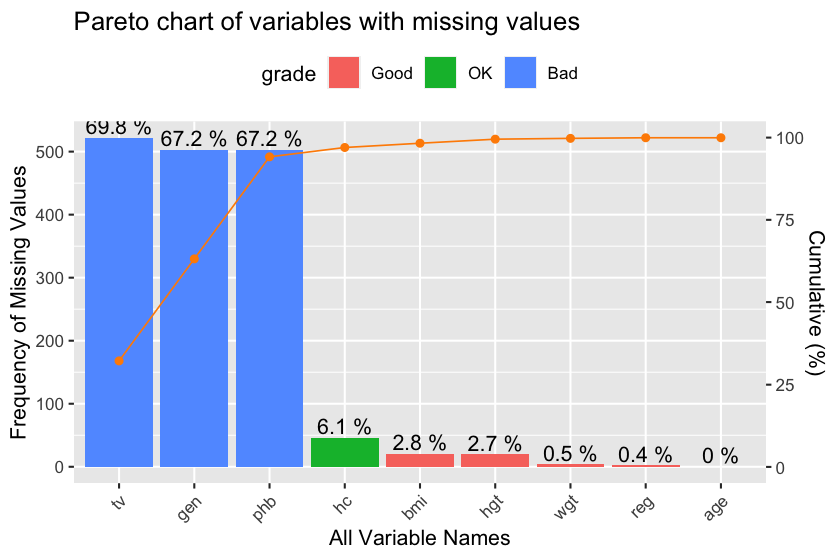
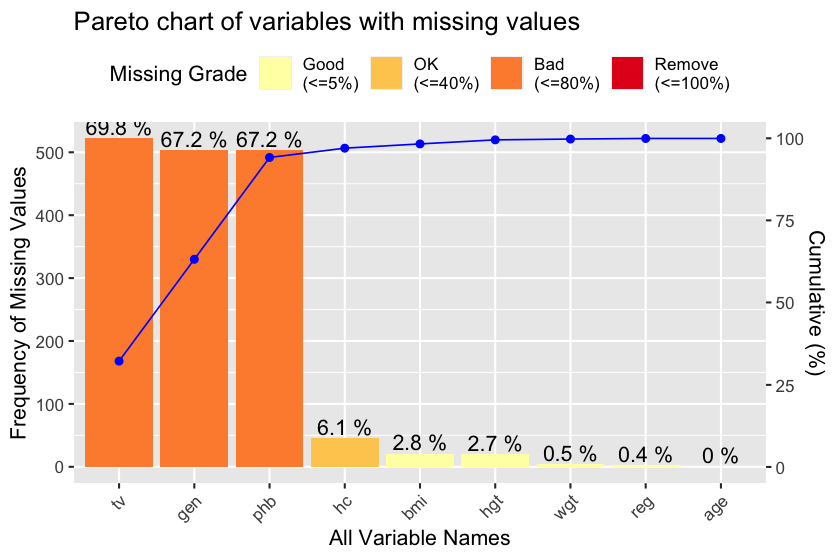
fixed the diagonosis in pkgdown docs

diff --git a/docs/articles/diagonosis.html b/docs/articles/diagonosis.html
@@ -77,7 +77,7 @@
       <h1 data-toc-skip>Data quality diagnosis</h1>
                         <h4 class="author">Choonghyun Ryu</h4>
             
-            <h4 class="date">2020-11-22</h4>
+            <h4 class="date">2020-12-04</h4>
       
       <small class="dont-index">Source: <a href="https://github.com/choonghyunryu/dlookr/blob/master/vignettes/diagonosis.Rmd"><code>vignettes/diagonosis.Rmd</code></a></small>
       <div class="hidden name"><code>diagonosis.Rmd</code></div>
@@ -427,7 +427,7 @@ diagnose(flights, -(year:day))
 </h4>
 <p><code><a href="../reference/plot_na_pareto.html">plot_na_pareto()</a></code> draws a pareto chart by collecting variables including missing values.</p>
 <div class="sourceCode" id="cb15"><html><body><pre class="r"><span class="kw pkg">mice</span><span class="kw ns">::</span><span class="no"><a href="https://rdrr.io/pkg/mice/man/boys.html">boys</a></span> <span class="kw">%&gt;%</span>
-  <span class="fu"><a href="../reference/plot_na_pareto.html">plot_na_pareto</a></span>(<span class="kw">col</span> <span class="kw">=</span> <span class="st">"darkorange"</span>)</pre></body></html></div>
+  <span class="fu"><a href="../reference/plot_na_pareto.html">plot_na_pareto</a></span>(<span class="kw">col</span> <span class="kw">=</span> <span class="st">"blue"</span>)</pre></body></html></div>
 <p><img src="diagonosis_files/figure-html/plot_na_pareto1-1.png" width="600px" style="display: block; margin: auto;"></p>
 <p>The default value of the <code>only_na</code> argument is FALSE, which includes variables that do not contain missing values, but if this value is set to TRUE, only variables containing missing values are visualized. The variable <code>age</code> was excluded from this plot.</p>
 <div class="sourceCode" id="cb16"><html><body><pre class="r"><span class="kw pkg">mice</span><span class="kw ns">::</span><span class="no"><a href="https://rdrr.io/pkg/mice/man/boys.html">boys</a></span> <span class="kw">%&gt;%</span>
@@ -645,7 +645,7 @@ Data diagnosis report outlier diagnosis contents (html)
 <span class="no">carseats</span>[<span class="fu"><a href="https://rdrr.io/r/base/sample.html">sample</a></span>(<span class="fu"><a href="https://rdrr.io/r/base/seq.html">seq</a></span>(<span class="fu"><a href="https://rdrr.io/r/base/nrow.html">NROW</a></span>(<span class="no">carseats</span>)), <span class="fl">5</span>), <span class="st">"Urban"</span>] <span class="kw">&lt;-</span> <span class="fl">NA</span>
 
 <span class="co"># connect DBMS</span>
-<span class="no">con_sqlite</span> <span class="kw">&lt;-</span> <span class="kw pkg">DBI</span><span class="kw ns">::</span><span class="fu"><a href="https://dbi.r-dbi.org/reference/dbConnect.html">dbConnect</a></span>(<span class="kw pkg">RSQLite</span><span class="kw ns">::</span><span class="fu"><a href="https://rsqlite.r-dbi.org/reference/SQLite.html">SQLite</a></span>(), <span class="st">":memory:"</span>)
+<span class="no">con_sqlite</span> <span class="kw">&lt;-</span> <span class="kw pkg">DBI</span><span class="kw ns">::</span><span class="fu"><a href="https://dbi.r-dbi.org/reference/dbConnect.html">dbConnect</a></span>(<span class="kw pkg">RSQLite</span><span class="kw ns">::</span><span class="fu"><a href="https://rdrr.io/pkg/RSQLite/man/SQLite.html">SQLite</a></span>(), <span class="st">":memory:"</span>)
 
 <span class="co"># copy carseats to the DBMS with a table named TB_CARSEATS</span>
 <span class="fu"><a href="https://dplyr.tidyverse.org/reference/copy_to.html">copy_to</a></span>(<span class="no">con_sqlite</span>, <span class="no">carseats</span>, <span class="kw">name</span> <span class="kw">=</span> <span class="st">"TB_CARSEATS"</span>, <span class="kw">overwrite</span> <span class="kw">=</span> <span class="fl">TRUE</span>)</pre></body></html></div>
@@ -663,7 +663,7 @@ con_sqlite %&gt;%
   &lt;chr&gt;       &lt;chr&gt;          &lt;dbl&gt;           &lt;dbl&gt;        &lt;int&gt;       &lt;dbl&gt;
 1 Sales       double             0               0          336       0.84 
 2 CompPrice   double             0               0           73       0.182
-3 Income      double            20               5           98       0.245
+3 Income      double            20               5           99       0.248
 4 Advertising double             0               0           28       0.07 
 # … with 7 more rows
 
@@ -675,7 +675,7 @@ con_sqlite %&gt;%
   variables types   missing_count missing_percent unique_count unique_rate
   &lt;chr&gt;     &lt;chr&gt;           &lt;int&gt;           &lt;dbl&gt;        &lt;int&gt;       &lt;dbl&gt;
 1 Sales     numeric             0               0          336       0.84 
-2 Income    numeric            20               5           98       0.245
+2 Income    numeric            20               5           99       0.248
 3 Age       numeric             0               0           56       0.14 
   
 # Positions values select columns, and In-memory mode and collect size is 200
@@ -687,7 +687,7 @@ con_sqlite %&gt;%
   &lt;chr&gt;       &lt;chr&gt;           &lt;int&gt;           &lt;dbl&gt;        &lt;int&gt;       &lt;dbl&gt;
 1 Sales       numeric             0               0          182       0.91 
 2 CompPrice   numeric             0               0           65       0.325
-3 Income      numeric             8               4           84       0.42 
+3 Income      numeric             8               4           82       0.41 
 4 Advertising numeric             0               0           23       0.115
 # … with 4 more rows</pre></body></html></div>
 </div>
@@ -730,7 +730,7 @@ con_sqlite %&gt;%
   &lt;chr&gt;       &lt;dbl&gt;  &lt;dbl&gt;  &lt;dbl&gt;  &lt;dbl&gt;  &lt;dbl&gt; &lt;dbl&gt; &lt;int&gt; &lt;int&gt;   &lt;int&gt;
 1 Sales           0   5.39   7.50   7.49   9.32  16.3     1     0       2
 2 CompPrice      77 115    125.   125    135    175       0     0       2
-3 Income         21  42     68.4   69     91    120       0     0       0
+3 Income         21  44     68.9   69     91    120       0     0       0
 4 Advertising     0   0      6.64   5     12     29     144     0       0
 # … with 4 more rows
   
@@ -742,7 +742,7 @@ con_sqlite %&gt;%
   variables   min    Q1  mean median    Q3   max  zero minus outlier
 * &lt;chr&gt;     &lt;dbl&gt; &lt;dbl&gt; &lt;dbl&gt;  &lt;dbl&gt; &lt;dbl&gt; &lt;dbl&gt; &lt;int&gt; &lt;int&gt;   &lt;int&gt;
 1 Sales         0  5.26  7.42   7.50  9.10  14.9     1     0       0
-2 Income       21 47.8  70.7   72    92.2  120       0     0       0</pre></body></html></div>
+2 Income       21 48    71.3   72.5  93    120       0     0       0</pre></body></html></div>
 </div>
 <div id="diagnose-outlier-of-numerical-variables-in-the-dbms" class="section level3">
 <h3 class="hasAnchor">
